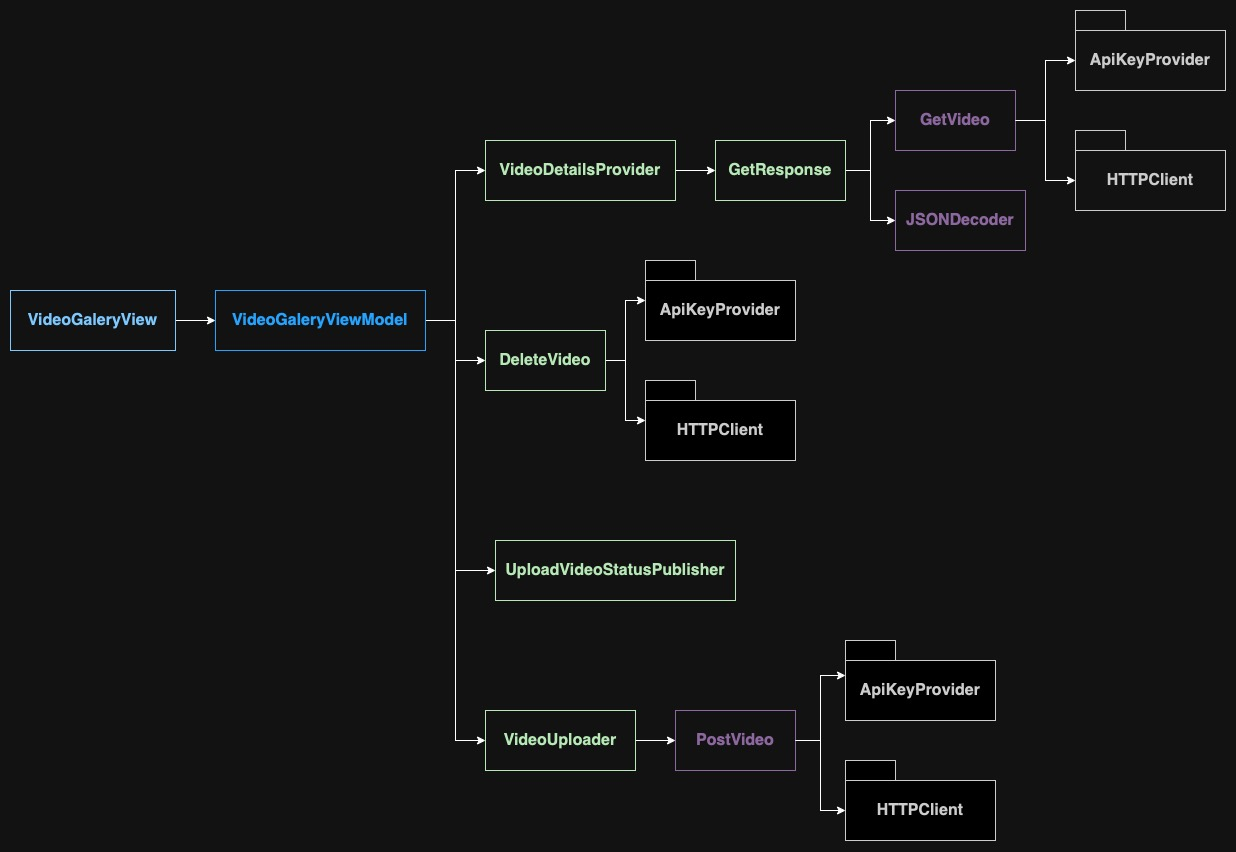
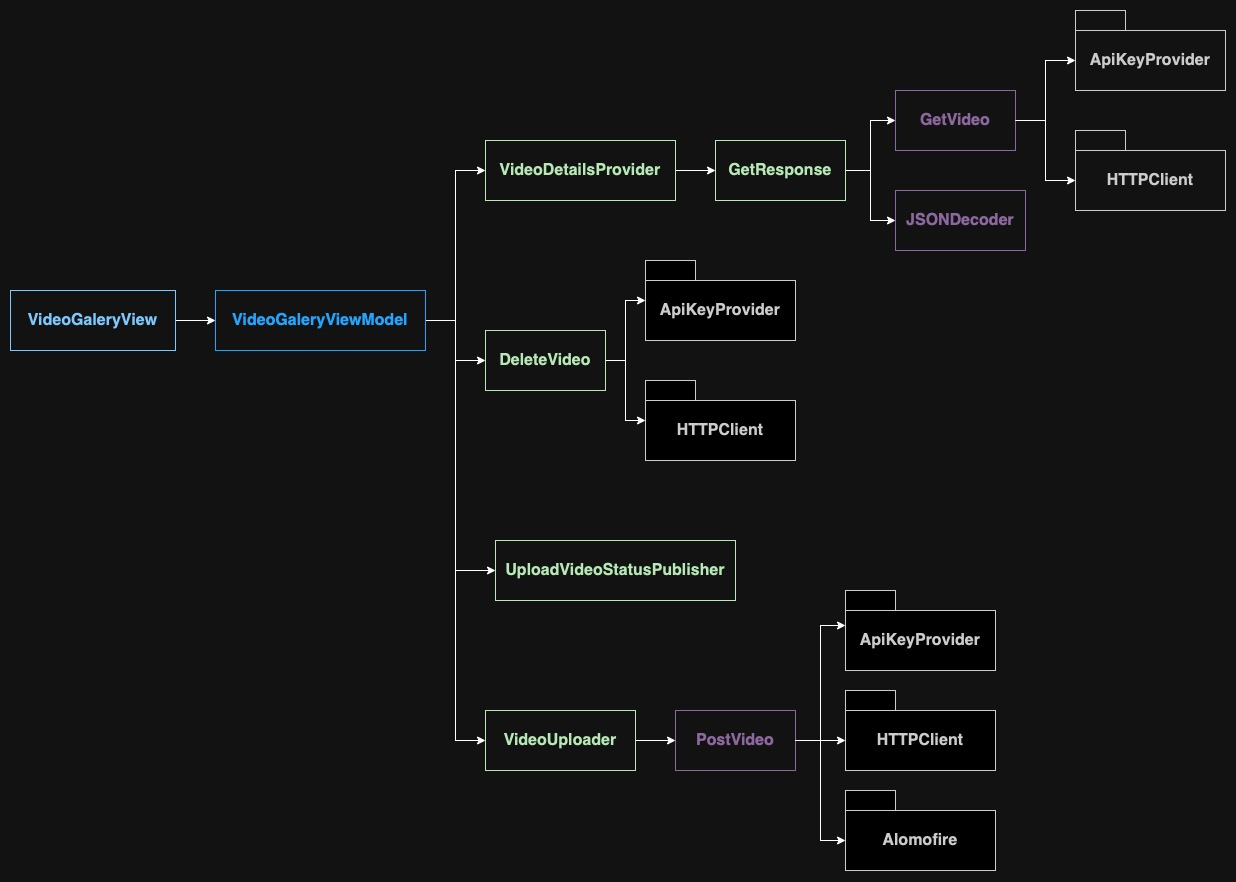
README update: assets update

diff --git a/README.md b/README.md
@@ -50,16 +50,16 @@ See [More About Architectures](#More-About-Architectures) or [More About User De
 * [ApiKeyProvider](#ApiKeyProvider)
 * [HTTPClient](#HTTPClient)
 
-## VideoRecordingView
+## `VideoRecordingView`
 Wrapping `CameraViewController` through `UIViewControllerRepresentable`. Use `AVCaptureSession` to connect to device's camera and enable video recording.
 
 **Navigates to:**
 * `UploadVideoPreviewView`: [open details](#UploadVideoPreviewView)
 
-## UploadVideoPreviewView
+## `UploadVideoPreviewView`
 <img src="README_Assets/UploadVideoPreviewView.jpg" alt="UploadVideoPreviewView">
 
-*Upload Request using Alomofire*
+*Upload Request using `Alomofire`*
 
 **More About:**
 * [ApiKeyProvider](#ApiKeyProvider)
